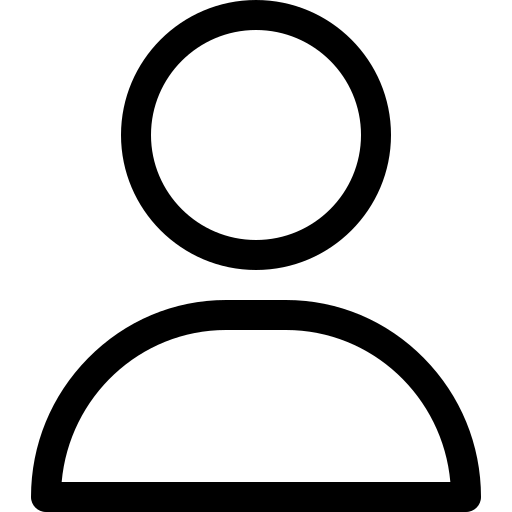
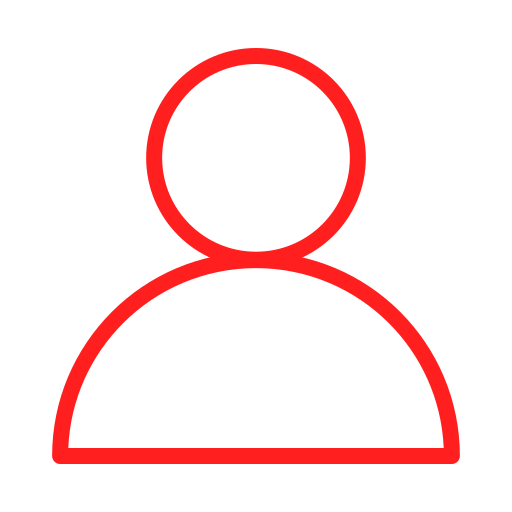
creation bouton pour s'enregistrer et connexion

Changed region(s): [[0.0625, 0.0, 0.9375, 1.0]]

diff --git a/templates/index.html b/templates/index.html
@@ -5,18 +5,40 @@
     <meta name="viewport" content="width=device-width, initial-scale=1">
     <title>MyAnimeProgress</title>
 
-
     <style>
         html{
             background-color: #141414;
         }
-        header{
-            text-align: center;
-            color:white;
+        head{
+            display: grid;
+            grid-template-columns: repeat(3, 1fr);
         }
+        header{
+            display: grid;
+            grid-template-columns: 1fr auto 1fr;
+            align-items: center;
+            gap: 10px;
+            padding: 10px 20px;
+            color: white;
+}
+
+        header h1{
+            grid-column: 2;
+            justify-self: center;
+            margin: 0;
+            color: white;
+}
+
         header hr{
             border: 1px solid #ff0000;
         }
+        header form{
+            grid-column: 1;
+            justify-self: start;
+            margin: 0;
+            display: flex;
+            align-items: center;
+}
         .container{
             border: 1px solid black;
             display: flex;
@@ -88,10 +110,18 @@ header form{
 
 }
 .utilisateur{
-    display: flex;
-    justify-content: center;
-    width: 5%;
-}
+    grid-column: 3;
+    justify-self: end;
+} .utilisateur img{
+      width: 40px;
+      border-radius: 8px;
+      border : 1px solid #ff0000;
+
+
+ }
+  .utilisateur a{
+      text-decoration: none;
+   }
     </style>
 </head>
 <body>
@@ -107,7 +137,9 @@ header form{
     <button type="submit" class="btn-pagination">Filtrer</button>
 </form>
     <div class="utilisateur">
+        <a href="#">
     <img src="{{ url_for('static', filename='utilisateur.png') }}" alt="logo">
+            </a>
     </div>
     <hr>
 
